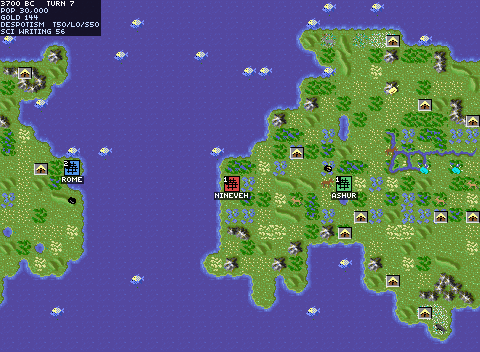
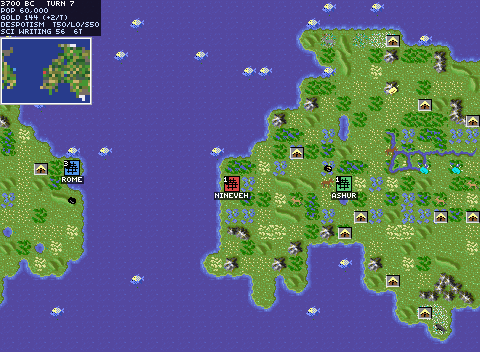
Status pane: show gold income and turns-to-advance
The pane now reads 'Gold N (+M/t)' -- net income per turn (city tax less upkeep)
-- and the research line adds the turns remaining to the next advance at the
current rate ('Sci Writing 56% 6t'). Backed by new model helpers civ-gold-rate,
civ-research-rate, and research-eta; process-city's science calc was factored
into city-research-output (used by both the per-turn rate and the turn loop, so
they can't drift). 936 model checks pass (behavior preserved + new
economy-rates-and-eta test).

Changed region(s): [[0.0, 0.0938, 0.2188, 0.3125], [0.0938, 0.0312, 0.125, 0.0625]]

diff --git a/README.md b/README.md
@@ -35,14 +35,15 @@ sight, bright = currently visible. A scout's trail is dimmed behind it.*
 A Civ1-style status pane sits in the top-left, reading out the state of your
 civilization at a glance: the **date** and turn, your total **population**
 (the classic 10k / 30k / 60k… per-city formula, summed and comma-grouped), your
-**gold reserves**, your **government** and the **tax / luxury / science** split,
-and your current **research** target with its **percent progress** toward the
-next advance. A spaceship line appears once one is in flight.
+**gold reserves** and **net income per turn**, your **government** and the
+**tax / luxury / science** split, and your current **research** target with its
+**percent progress** and **turns remaining** to the next advance. A spaceship
+line appears once one is in flight.
 
 ![the civilization status pane](docs/hud-shot.png)
 
-*Despotism Rome in 3700 BC: population 30,000, 144 gold, a 50/0/50 tax split, and
-Writing 56% researched.*
+*Despotism Rome in 3700 BC: population 60,000, 144 gold (+2/turn), a 50/0/50 tax
+split, and Writing 56% researched — six turns out.*
 
 Below the readout sits an **overview minimap**: one block per tile coloured by
 terrain, cities as dots in their owner's colour, and a white rectangle marking
